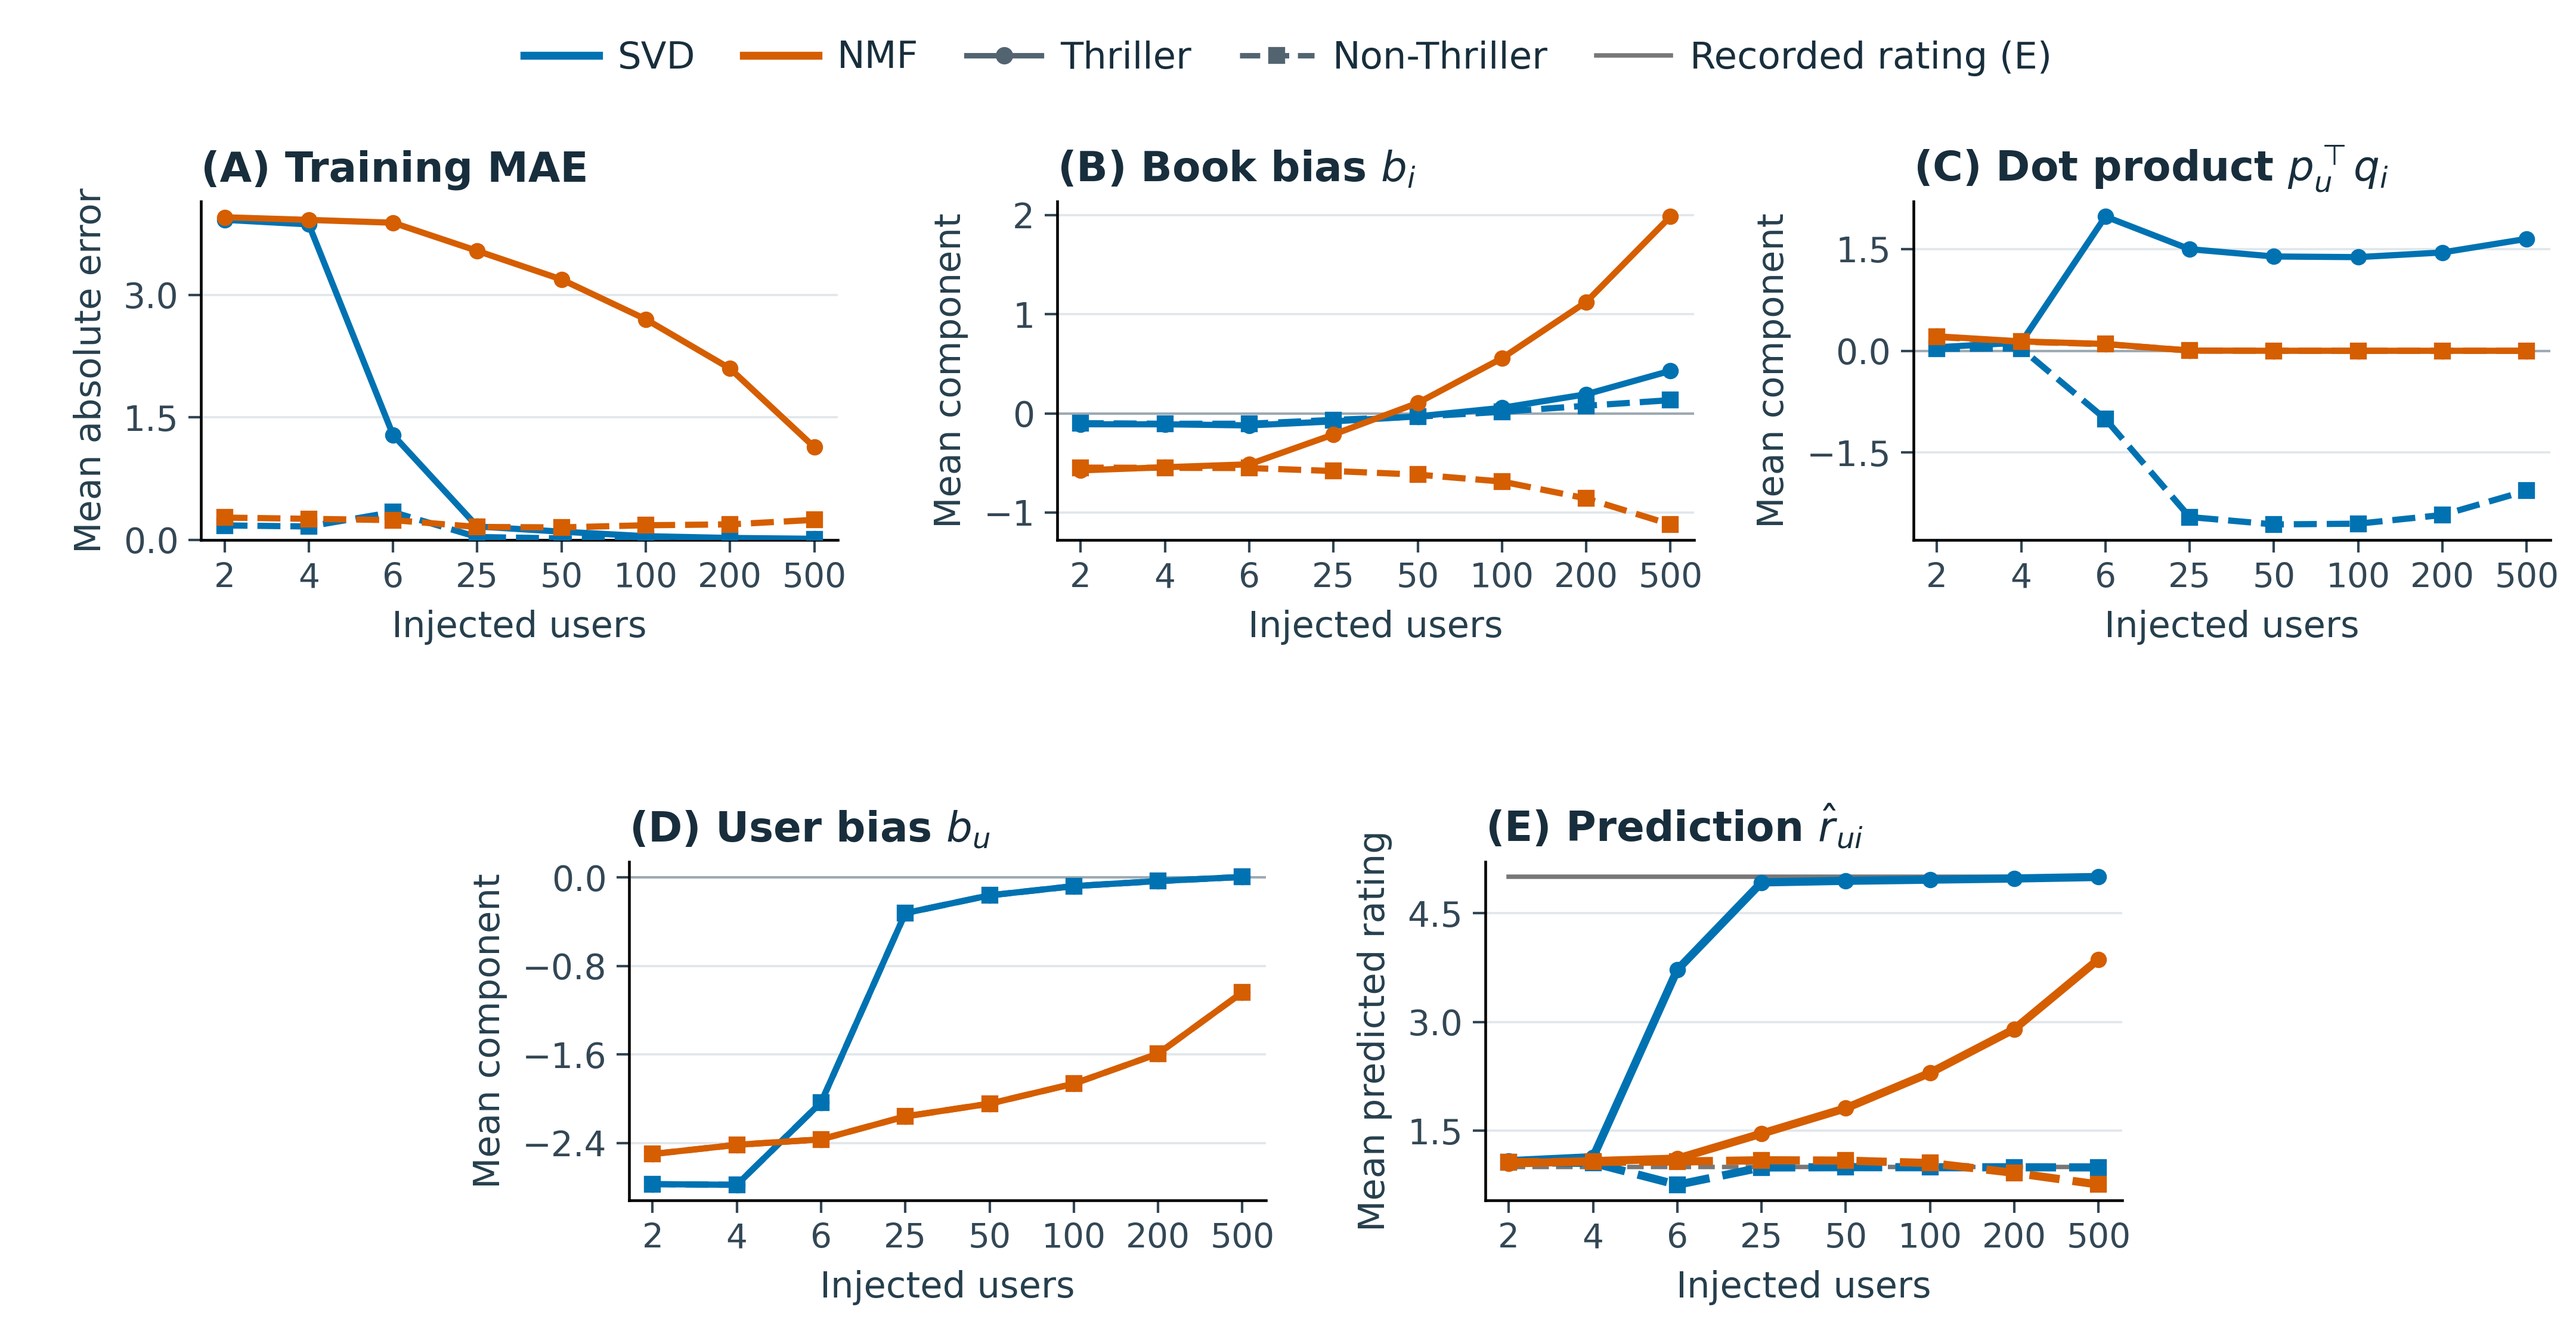
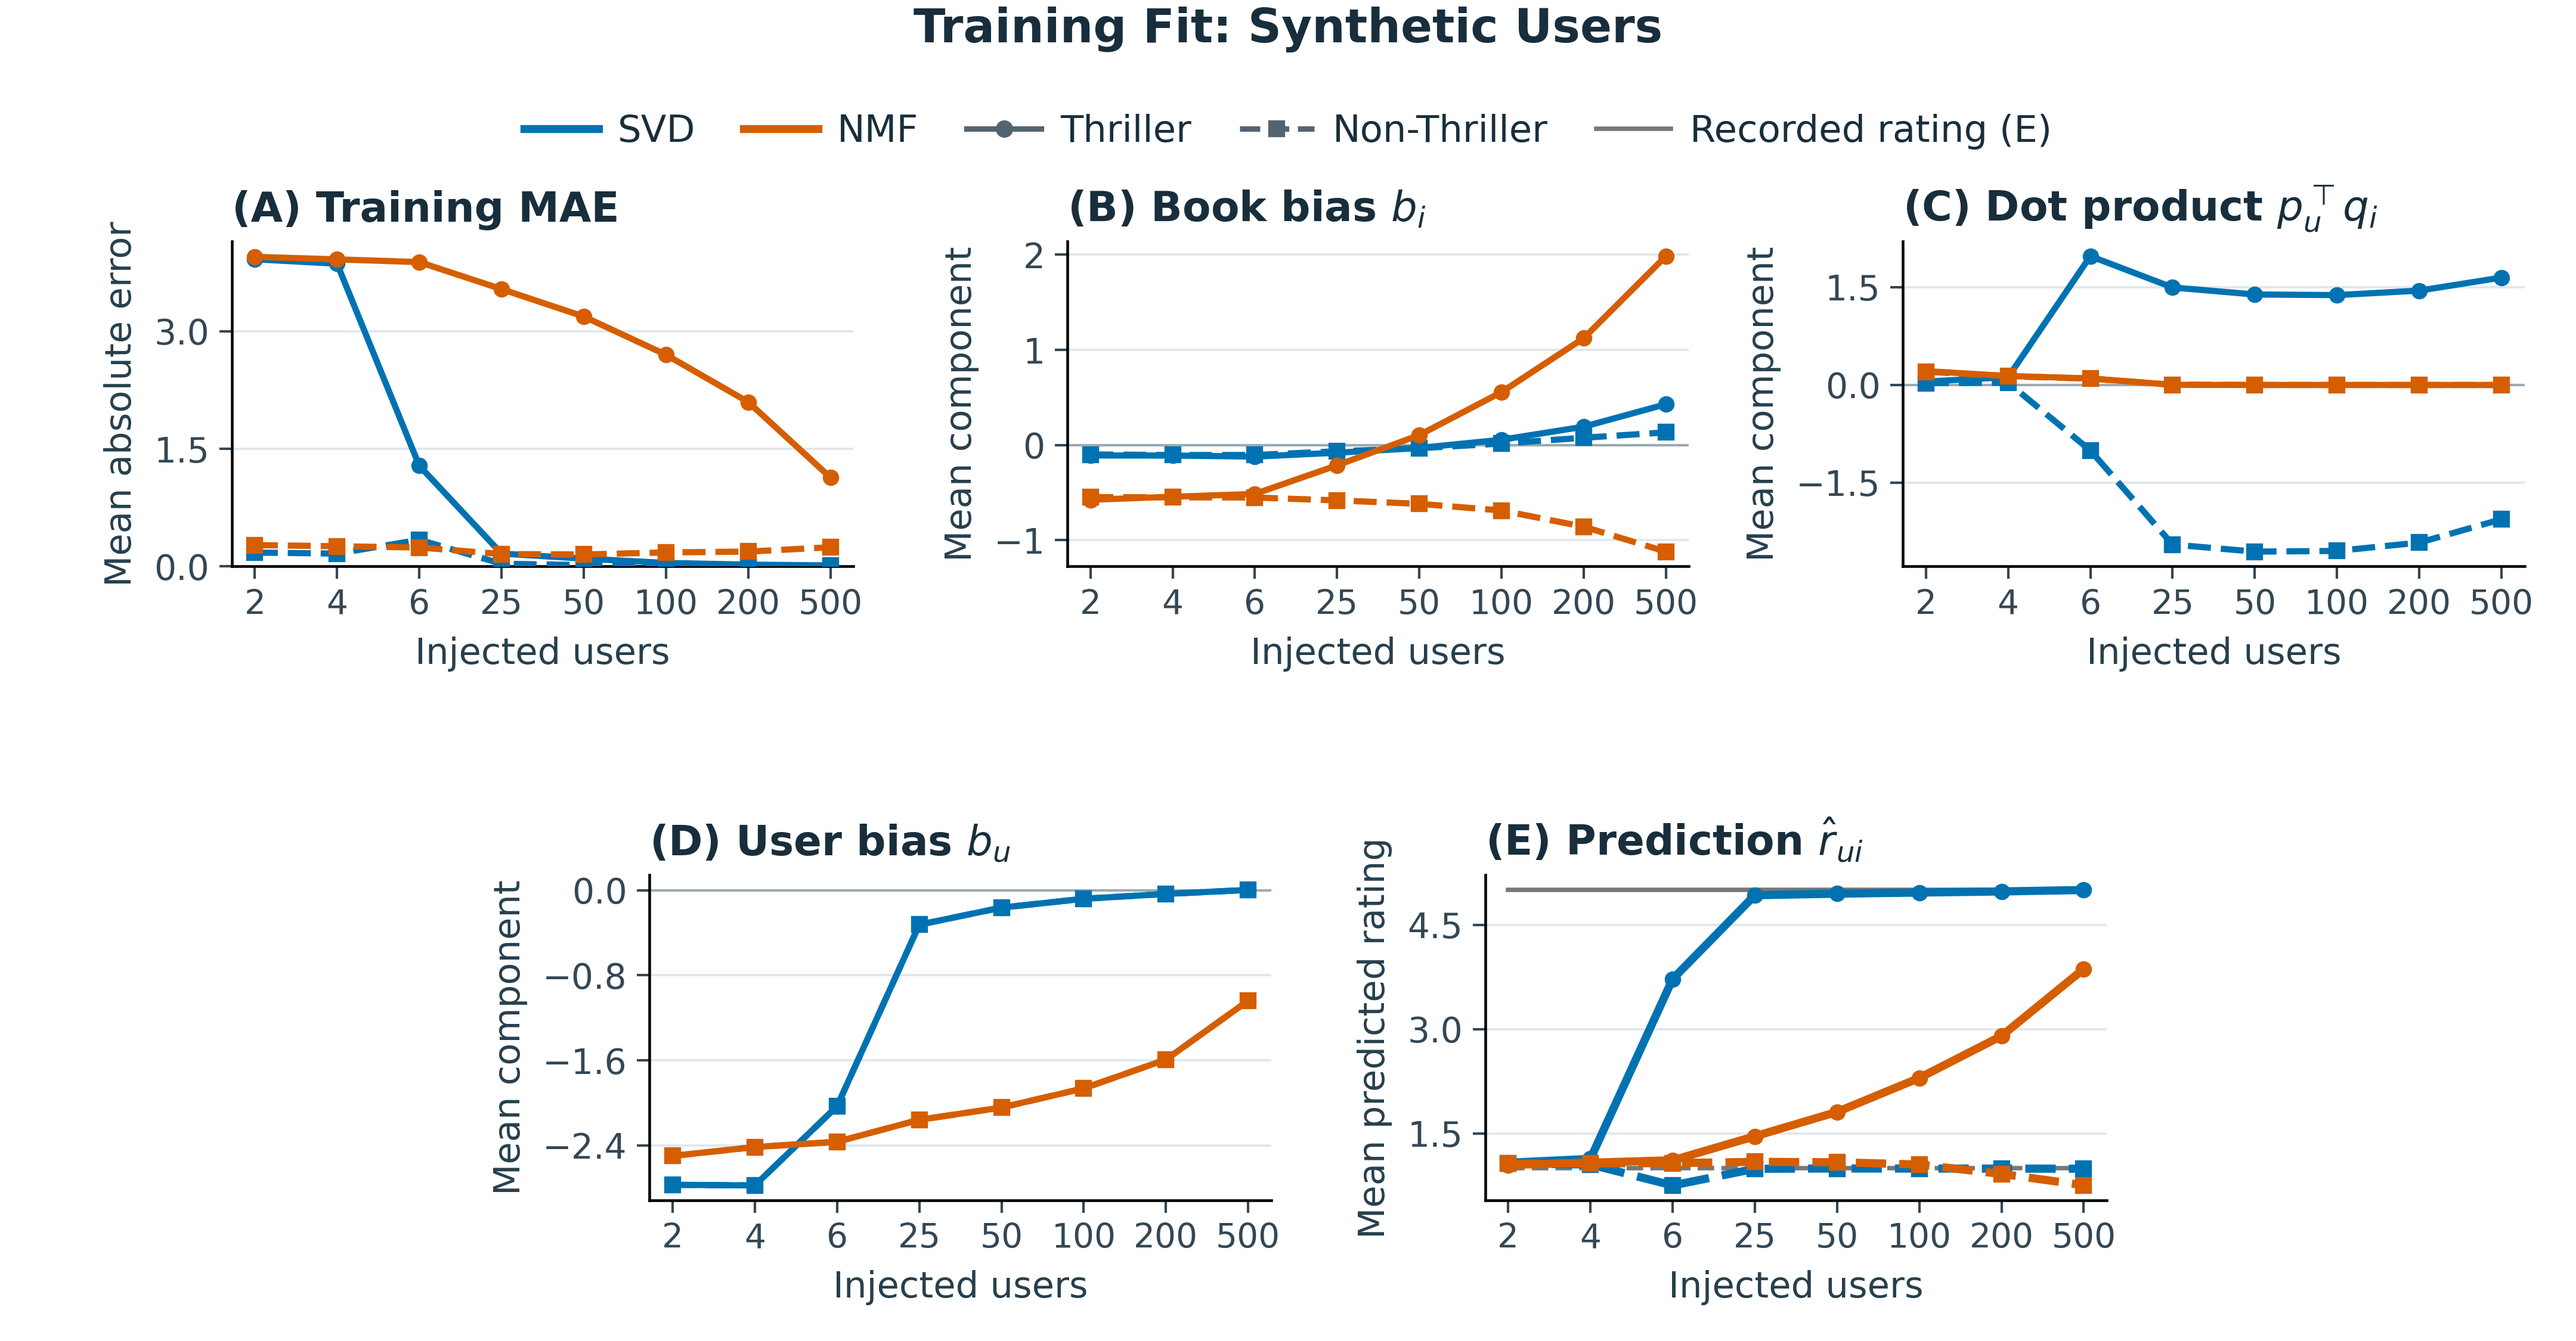
Add titles to Thriller paper figures

diff --git a/First_paper_material/notebook/build_thriller_compact_paper_figures.py b/First_paper_material/notebook/build_thriller_compact_paper_figures.py
@@ -26,6 +26,8 @@ for view,name in [
  ns=([2,4,6,25,50,100,200,500] if view=='synthetic_training' else [0,2,4,6,25,50,100,200,500])
  x=np.arange(len(ns));f=source[(source.genre=='Thriller')&(source.view==view)]
  fig=plt.figure(figsize=(7.2,3.75))
+ figure_title={'all_training':'Training Fit: All Users','synthetic_training':'Training Fit: Synthetic Users','real_unseen_prediction':'Recommendations for Real Users'}[view]
+ fig.suptitle(figure_title,fontsize=9.4,fontweight='bold',color='#182E3C',y=.995)
  if view=='real_unseen_prediction':
   grid=fig.add_gridspec(2,2)
   axs=[fig.add_subplot(grid[0,0]),fig.add_subplot(grid[0,1]),fig.add_subplot(grid[1,0]),fig.add_subplot(grid[1,1])]
@@ -73,16 +75,16 @@ for view,name in [
   ax.set_axisbelow(True);ax.grid(axis='y',color='#E1E7EB',lw=.45,zorder=0);ax.margins(x=.04)
  handles=[Line2D([0],[0],color=COLORS['svd'],lw=1.6,label='SVD'),Line2D([0],[0],color=COLORS['nmf'],lw=1.6,label='NMF'),Line2D([0],[0],color='#536471',lw=1.1,marker='o',ms=2.5,label='Thriller'),Line2D([0],[0],color='#536471',lw=1.1,ls='--',marker='s',ms=2.5,label='Non-Thriller')]
  if view!='real_unseen_prediction':handles.append(Line2D([0],[0],color='#777777',lw=.9,label='Recorded rating (E)'))
- fig.legend(handles=handles,loc='upper center',bbox_to_anchor=(.5,.995),ncol=len(handles),frameon=False,fontsize=7.5,columnspacing=1.3,handlelength=2.0,handletextpad=.5)
- fig.subplots_adjust(left=.09,right=.98,bottom=.105,top=.85,hspace=.95,wspace=.30 if view=='real_unseen_prediction' else 1.05)
- # No figure title or explanatory footer: manuscript captions carry context.
+ fig.legend(handles=handles,loc='upper center',bbox_to_anchor=(.5,.94),ncol=len(handles),frameon=False,fontsize=7.5,columnspacing=1.3,handlelength=2.0,handletextpad=.5)
+ fig.subplots_adjust(left=.09,right=.98,bottom=.105,top=.82,hspace=.95,wspace=.30 if view=='real_unseen_prediction' else 1.05)
+ # Figure title is concise; detailed interpretation remains in the manuscript caption.
  fig.canvas.draw();renderer=fig.canvas.get_renderer()
  for ax in axs:
   box=ax.get_tightbbox(renderer)
   assert box.x0>=-1 and box.y0>=-1 and box.x1<=fig.bbox.width+1 and box.y1<=fig.bbox.height+1,(name,box.bounds)
  path=OUT/name;fig.savefig(path,dpi=600);plt.close(fig)
  im=Image.open(path);assert im.size==(4320,2250)
- validation.append(dict(file=str(path),view=view,pixel_size=im.size,figure_inches=[7.2,3.75],panels=len(axs),n_fake=ns,main_title=False,footer_caption=False,plotted_series=rows,sha256=hashlib.sha256(path.read_bytes()).hexdigest()))
+ validation.append(dict(file=str(path),view=view,pixel_size=im.size,figure_inches=[7.2,3.75],panels=len(axs),n_fake=ns,main_title=True,title=figure_title,footer_caption=False,plotted_series=rows,sha256=hashlib.sha256(path.read_bytes()).hexdigest()))
  print(path,flush=True)
 validation_path=NB/'thriller_compact_paper_figures_validation.json'
 if '--prediction-only' in sys.argv and validation_path.exists():
